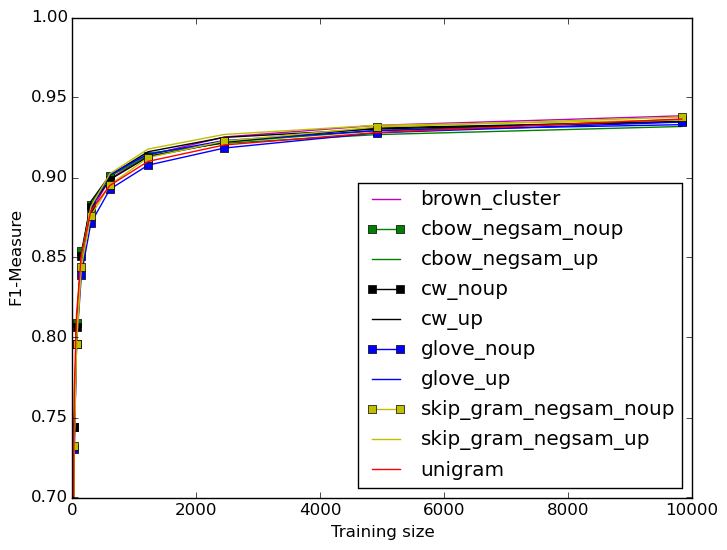
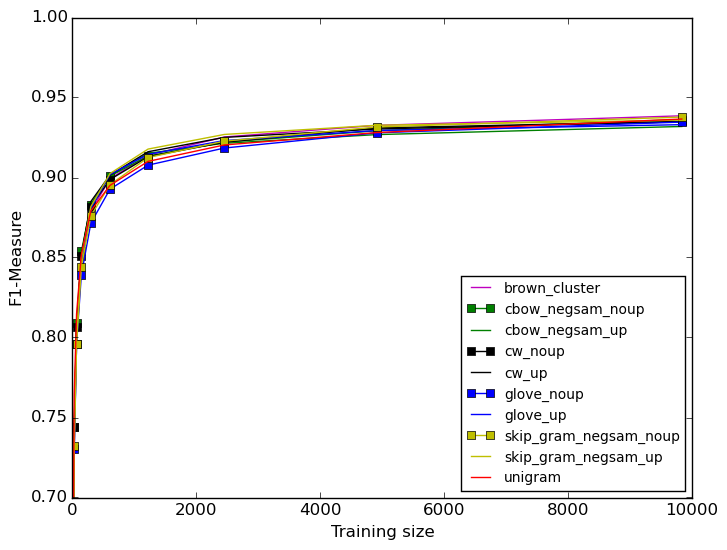
set legend loc to best

Changed region(s): [[0.4842, 0.3091, 0.9684, 0.8964]]

diff --git a/trunk/plots/bestChunk.py b/trunk/plots/bestChunk.py
@@ -47,8 +47,7 @@ marker = ''
 linestyle = '-'
 noupMarker = 's'
 walk_dir = inputfolder
-legParams = {'legend.fontsize': 10,
-          'legend.linewidth': 0.4}
+legParams = {'legend.fontsize': 10}
 
 
 alist_filter = ['brown_cluster_v2000_best.txt', 
@@ -160,7 +159,7 @@ plt.ylim([.7,1])
 plt.xlabel('Training size')
 plt.ylabel('F1-Measure')
 
-#plt.rcParams.update(legParams)
+plt.rcParams.update(legParams)
 plt.legend(loc='lower right')
 savefig(outputfile, bbox_inches='tight')
 #plt.show()

diff --git a/trunk/plots/bestNER.py b/trunk/plots/bestNER.py
@@ -148,7 +148,7 @@ plt.ylim([.7,1])
 plt.xlabel('Training size')
 plt.ylabel('F1-Measure')
 plt.rcParams.update(legParams)
-plt.legend(loc='lower right')
+plt.legend(loc='best')
 savefig(outputfile, bbox_inches='tight')
 #plt.show()
 
